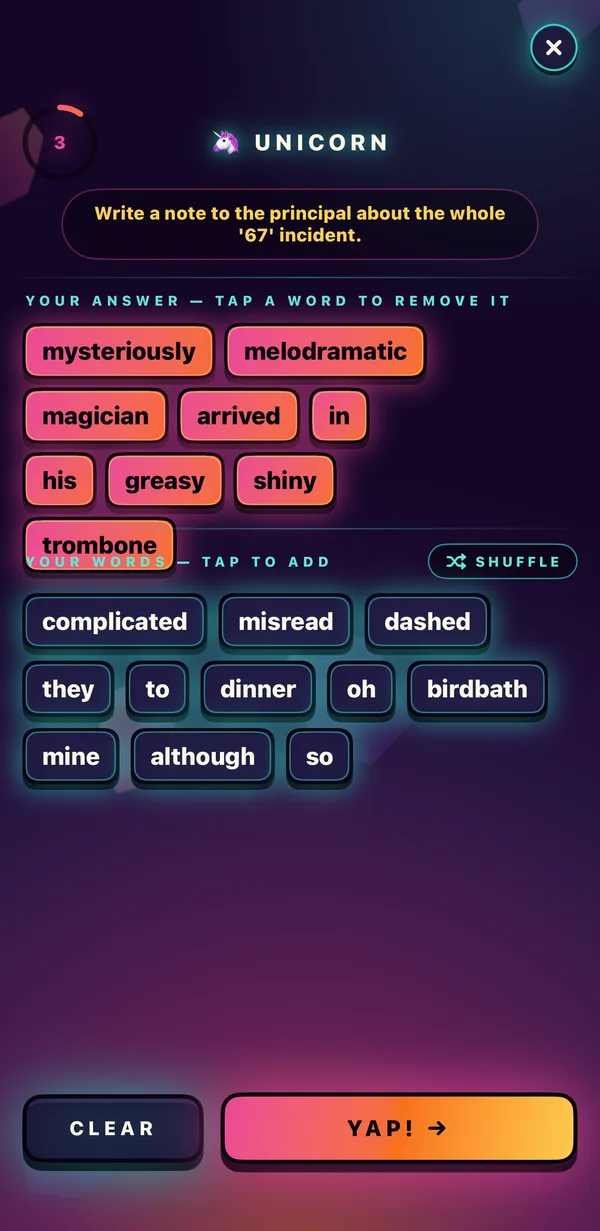
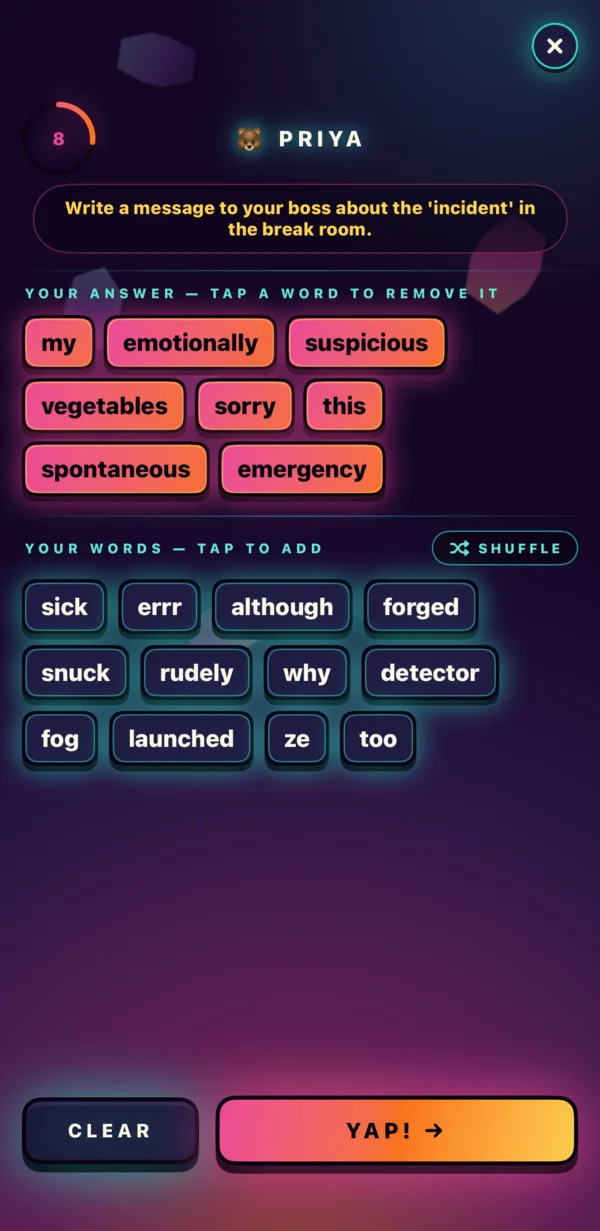
Drop the buffet prompt shot, use a clean word-building capture
Two of the ten supplied screenshots showed defects the app no longer has,
both fixed by YapOff 678b2e8 (20 Aug 21:57) -- about 3h40m after the
screenshots were taken at 18:16-18:22:

  - the buffet prompt rendered 'you had to be had to be restrained'
  - the 'trombone' chip overlapped the 'YOUR WORDS' heading

Aly's call: drop the buffet shot (redundant -- a prompt card is already
shown) and swap the word-building shot, which is the one that demonstrates
the core mechanic and so cannot simply be dropped.

The replacement comes from AppStore/Screenshots/iphone-6.9, captured today
15:50. That capture predates the seven-prompt copy fix (a30c9e1, 16:16), so
it is NOT a post-fix build -- but the screen it shows displays none of the
seven corrected strings, and its prompt is byte-identical to PromptBank.swift:48
at HEAD. Verified per-string, not inferred from the commit graph.

Strip is now nine shots, all 600x1231.

diff --git a/yapoff/index.html b/yapoff/index.html
@@ -355,7 +355,7 @@
         <figcaption>Pass it along, no peeking</figcaption>
       </figure>
       <figure class="shot">
-        <img src="img/04-building.webp" width="600" height="1231" loading="lazy" alt="Building an answer as Unicorn: a countdown at three seconds, the prompt about the &rsquo;67 incident, nine chosen word chips forming a sentence, and a bank of remaining words to tap, with Clear and Yap buttons.">
+        <img src="img/04-building.webp" width="600" height="1231" loading="lazy" alt="Building an answer as Priya: a countdown running down, the prompt &ldquo;Write a message to your boss about the &lsquo;incident&rsquo; in the break room.&rdquo;, eight chosen word chips forming a sentence, and a bank of remaining words to tap, with Clear and Yap buttons.">
         <figcaption>Thirty seconds to build</figcaption>
       </figure>
       <figure class="shot">
@@ -365,10 +365,6 @@
       <figure class="shot">
         <img src="img/06-result.webp" width="600" height="1231" loading="lazy" alt="Round result: a trophy and &ldquo;Fox wins this round!&rdquo; above the winning answer and a scoreboard showing Fox on one point.">
         <figcaption>Somebody wins, briefly</figcaption>
-      </figure>
-      <figure class="shot">
-        <img src="img/07-prompt-two.webp" width="600" height="1231" loading="lazy" alt="A fresh round prompt about being restrained at the buffet table, with a badge showing Tiger is judging.">
-        <figcaption>Next round, new judge</figcaption>
       </figure>
       <figure class="shot">
         <img src="img/08-result-two.webp" width="600" height="1231" loading="lazy" alt="Round result: Tiger wins with &ldquo;a greasy dinner unleashed errr spilled pepperoni&rdquo;, scoreboard showing Fox and Tiger on one point each.">
